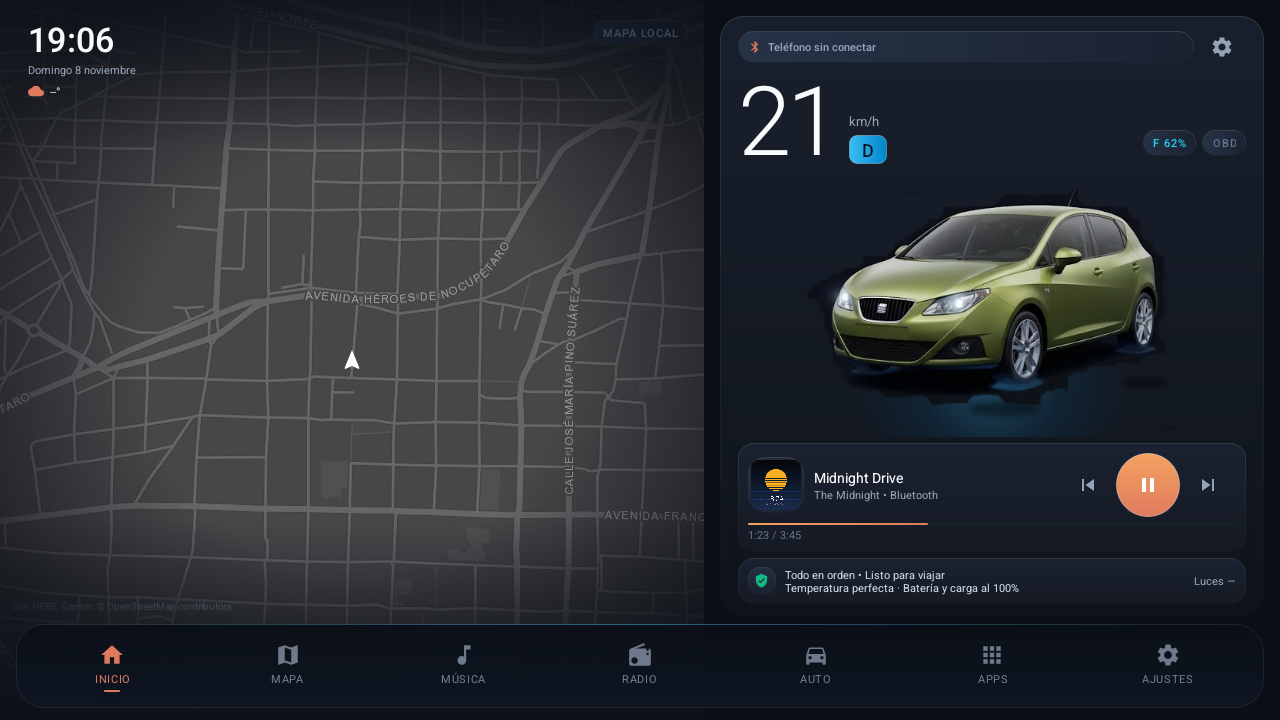
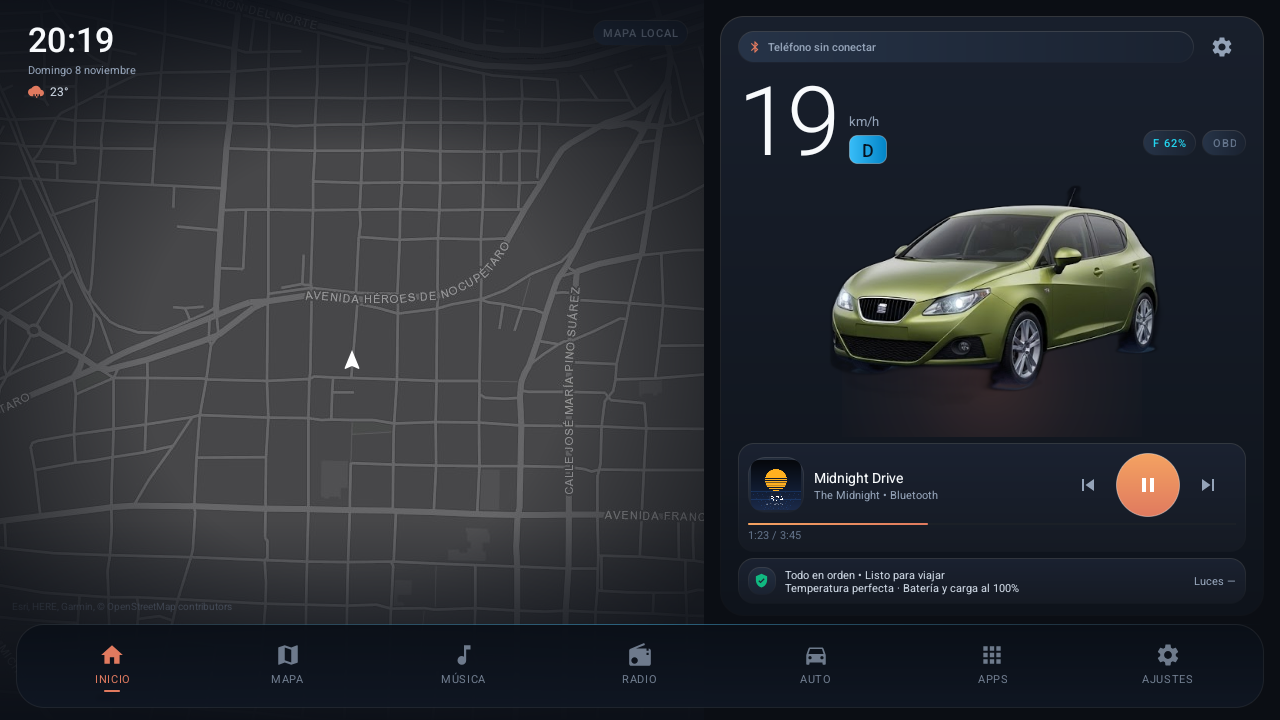
coche: limpiar sombra horneada, llantas completas y luz de piso cobre
Se reemplazo el render del Ibiza por un recorte limpio sin la sombra negra en bloques ni el brillo azul de las ruedas; se anadio una luz de piso cobre. Version 1.6.3 en estereo y telefono; galeria actualizada.

Changed region(s): [[0.6562, 0.4583, 0.875, 0.6111], [0.5625, 0.1222, 0.6562, 0.2139], [0.0, 0.0306, 0.0938, 0.0917]]

diff --git a/docs/screenshots/gallery.html b/docs/screenshots/gallery.html
@@ -170,8 +170,8 @@
     El buscador del teléfono prioriza negocios y direcciones de tu zona en México.
   </p>
   <div class="badges">
-    <span class="badge">IbizaDash 1.6.0 · estéreo</span>
-    <span class="badge alt">IbizaCompanion 1.6.2 · teléfono</span>
+    <span class="badge">IbizaDash 1.6.3 · estéreo</span>
+    <span class="badge alt">IbizaCompanion 1.6.3 · teléfono</span>
     <span class="badge green">14 pantallas del estéreo</span>
     <span class="badge green">8 pantallas del teléfono</span>
   </div>
@@ -326,7 +326,7 @@
 <footer>
   Capturas reales del emulador (1280×720) con datos OBD de demostración y el paquete offline de Morelia.
   Haz clic en cualquier captura para verla a tamaño completo.
-  · IbizaDash 1.6.0 · IbizaCompanion 1.6.2 ·
+  · IbizaDash 1.6.3 · IbizaCompanion 1.6.3 ·
   <a href="https://github.com/ChronosBVRX/IbizaDash" style="color:#1fb6ff">ChronosBVRX/IbizaDash</a>
 </footer>
 

diff --git a/docs/screenshots/README.md b/docs/screenshots/README.md
@@ -19,8 +19,8 @@ Haz clic en cualquier captura para verla a tamaño completo.
 
 | Carpeta | App | Pantallas |
 |---|---|---|
-| `stereo/` | IbizaDash 1.6.0 | Inicio, mapa, música, radio, mi auto, diagnóstico, motor, eléctrico, fallas, consola, ajustes rápidos, conexión, ajustes y apps |
-| `phone/` | IbizaCompanion 1.6.2 | Inicio, rutas, música, conexión, OTA, ajustes, módulos y sistema |
+| `stereo/` | IbizaDash 1.6.3 | Inicio, mapa, música, radio, mi auto, diagnóstico, motor, eléctrico, fallas, consola, ajustes rápidos, conexión, ajustes y apps |
+| `phone/` | IbizaCompanion 1.6.3 | Inicio, rutas, música, conexión, OTA, ajustes, módulos y sistema |
 
 Hojas de contacto:
 

diff --git a/README.md b/README.md
@@ -12,7 +12,7 @@ Launcher/dashboard estilo Tesla para el **SEAT Ibiza 6J 2010, 2.0 Style 4 puerta
   (capturas reales del estéreo y del teléfono, con hojas de contacto).
 - **Paquete del estéreo:** `com.chronosbvrx.ibizadash`
 - **Paquete del teléfono:** `com.chronosbvrx.ibizacompanion`
-- **Versiones actuales:** IbizaDash **1.6.0** (versionCode 25) · IbizaCompanion **1.6.2** (versionCode 20)
+- **Versiones actuales:** IbizaDash **1.6.3** (versionCode 27) · IbizaCompanion **1.6.3** (versionCode 21)
 - **minSdk 23 / targetSdk 33 / compileSdk 36** (estéreo)
 - Hecho con **Views** (sin Compose) en el estéreo para que sea liviano en el Cortex-A7.
 

diff --git a/docs/screenshots/GALLERY.md b/docs/screenshots/GALLERY.md
@@ -1,4 +1,4 @@
-# Galería de pantallas · IbizaDash 1.6.0 + IbizaCompanion 1.6.2
+# Galería de pantallas · IbizaDash 1.6.3 + IbizaCompanion 1.6.3
 
 Capturas reales del emulador a 1280×720, con datos OBD de demostración y el
 paquete offline de Morelia. Haz clic en cualquier imagen para verla completa.
